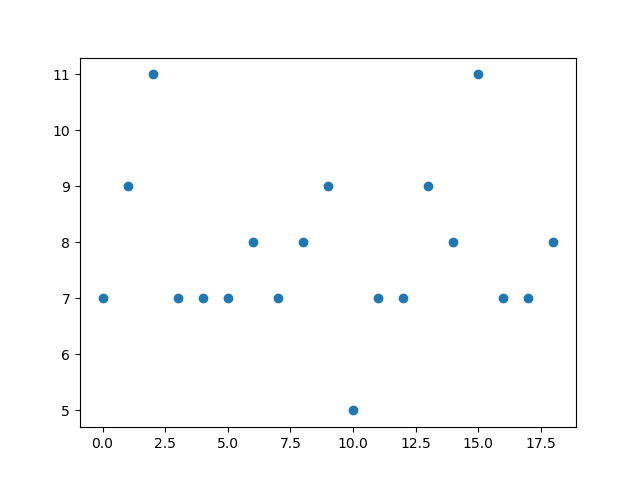
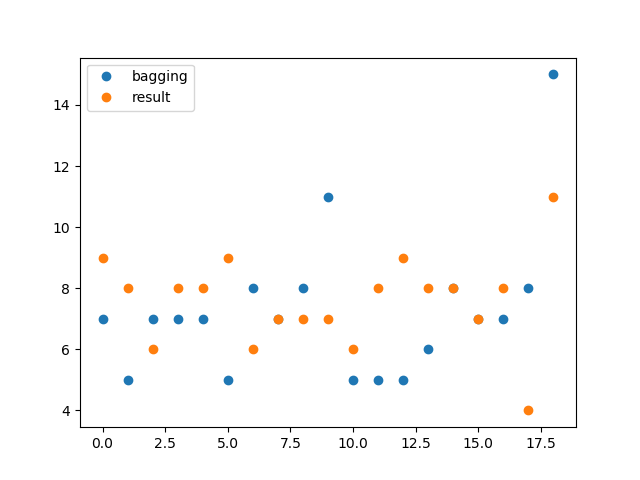
mais testes, agora direito

diff --git a/wine reviews machine learning/knn_and_logreg_everything_scaling.py b/wine reviews machine learning/knn_and_logreg_everything_scaling.py
@@ -1,3 +1,4 @@
+import matplotlib.pyplot as plt
 from sklearn import datasets
 from sklearn.model_selection import train_test_split
 from sklearn.neighbors import KNeighborsClassifier
@@ -68,19 +69,24 @@ for i in train:
 
 le = LabelEncoder()
 target = le.fit_transform(target)
-    
-print(train)
-print(target)
+
+#print(train)
+#print(target)
 X_train, X_test, y_train, y_test = train_test_split(train, target, test_size=0.2)
 
 #Create KNN Classifier
 knn = KNeighborsClassifier(n_neighbors=3)
 
 #Train the model using the training sets
-#knn.fit(X_train, y_train)
+knn.fit(X_train, y_train)
 
 #Predict the response for test dataset
-#y_pred = knn.predict(X_test)
+y_pred = knn.predict(X_test)
+p1 = plt.plot(y_pred, marker = 'o', ls = '')
+p2 = plt.plot(y_test, marker = 'o', ls = '')
+
+plt.legend((p1[0],p2[0]),('KNN', 'result'))
+plt.show()
 
 knn_scores = cross_val_score(knn, train, target, cv = 10, scoring='accuracy')
 
@@ -104,7 +110,7 @@ logreg = LogisticRegression()
 #logreg_predict = logreg.predict(X_test)
 
 logreg_scores = cross_val_score(logreg, train, target, cv = 10, scoring='accuracy')
-logreg_scores_precision = cross_val_score(logreg,  train, target, cv = 10, scoring ='precision_micro') 
+logreg_scores_precision = cross_val_score(logreg,  train, target, cv = 10, scoring ='precision_micro')
 logreg_scores_f1 = cross_val_score(logreg,  train, target, cv = 10, scoring ='f1_micro')
 
 print("Accuracy:",logreg_scores.mean())

diff --git a/wine reviews machine learning/knn_and_logreg_sum.py b/wine reviews machine learning/knn_and_logreg_sum.py
@@ -1,3 +1,4 @@
+import matplotlib.pyplot as plt
 from sklearn import datasets
 from sklearn.model_selection import train_test_split
 from sklearn.neighbors import KNeighborsClassifier
@@ -42,7 +43,7 @@ for x in range(len(target)):
     target[x] = float(target[x])
     target[x] = int(target[x])
 
-    
+
 print(train)
 print(target)
 X_train, X_test, y_train, y_test = train_test_split(train, target, test_size=0.2)
@@ -73,12 +74,17 @@ print("F1:",knn_scores_f1.mean())
 
 logreg = LogisticRegression()
 
-#logreg.fit(X_train, y_train)
+logreg.fit(X_train, y_train)
 
-#logreg_predict = logreg.predict(X_test)
+logreg_predict = logreg.predict(X_test)
+p1 = plt.plot(logreg_predict, marker = 'o', ls = '')
+p2 = plt.plot(y_test, marker = 'o', ls = '')
+
+plt.legend((p1[0],p2[0]),('logreg', 'result'))
+plt.show()
 
 logreg_scores = cross_val_score(logreg, train, target, cv = 10, scoring='accuracy')
-logreg_scores_precision = cross_val_score(logreg,  train, target, cv = 10, scoring ='precision_micro') 
+logreg_scores_precision = cross_val_score(logreg,  train, target, cv = 10, scoring ='precision_micro')
 logreg_scores_f1 = cross_val_score(logreg,  train, target, cv = 10, scoring ='f1_micro')
 
 print("Accuracy:",logreg_scores.mean())

diff --git a/wine reviews machine learning/knn_and_logreg_everything.py b/wine reviews machine learning/knn_and_logreg_everything.py
@@ -1,3 +1,4 @@
+import matplotlib.pyplot as plt
 from sklearn import datasets
 from sklearn.model_selection import train_test_split
 from sklearn.neighbors import KNeighborsClassifier
@@ -51,10 +52,11 @@ for i in range(len(t)):
 for x in range(len(target)):
     target[x] = float(target[x])
     target[x] = int(target[x])
-    
+
 print(train)
 print(target)
 X_train, X_test, y_train, y_test = train_test_split(train, target, test_size=0.2)
+
 
 #Create KNN Classifier
 knn = KNeighborsClassifier(n_neighbors=3)
@@ -87,7 +89,7 @@ logreg = LogisticRegression()
 #logreg_predict = logreg.predict(X_test)
 
 logreg_scores = cross_val_score(logreg, train, target, cv = 10, scoring='accuracy')
-logreg_scores_precision = cross_val_score(logreg,  train, target, cv = 10, scoring ='precision_micro') 
+logreg_scores_precision = cross_val_score(logreg,  train, target, cv = 10, scoring ='precision_micro')
 logreg_scores_f1 = cross_val_score(logreg,  train, target, cv = 10, scoring ='f1_micro')
 
 print("Accuracy:",logreg_scores.mean())

diff --git a/wine reviews machine learning/baggin.py b/wine reviews machine learning/baggin.py
@@ -23,9 +23,12 @@ for x in range(len(target)):
 X_train, X_test, y_train, y_test = train_test_split(train, target, test_size=0.2)
 
 baggin = BaggingClassifier(KNeighborsClassifier(), n_estimators = 53, max_samples = 0.5, max_features = 0.5)
-
-baggin.fit(X_train, y_train)
 voter = VotingClassifier(baggin)
 
-plt.plot(baggin.predict(X_test), marker = 'o', ls = '')
+baggin.fit(X_train, y_train)
+
+p1 = plt.plot(baggin.predict(X_test), marker = 'o', ls = '')
+p2 = plt.plot(y_test, marker = 'o', ls = '')
+
+plt.legend((p1[0],p2[0]),('bagging', 'result'))
 plt.show()
